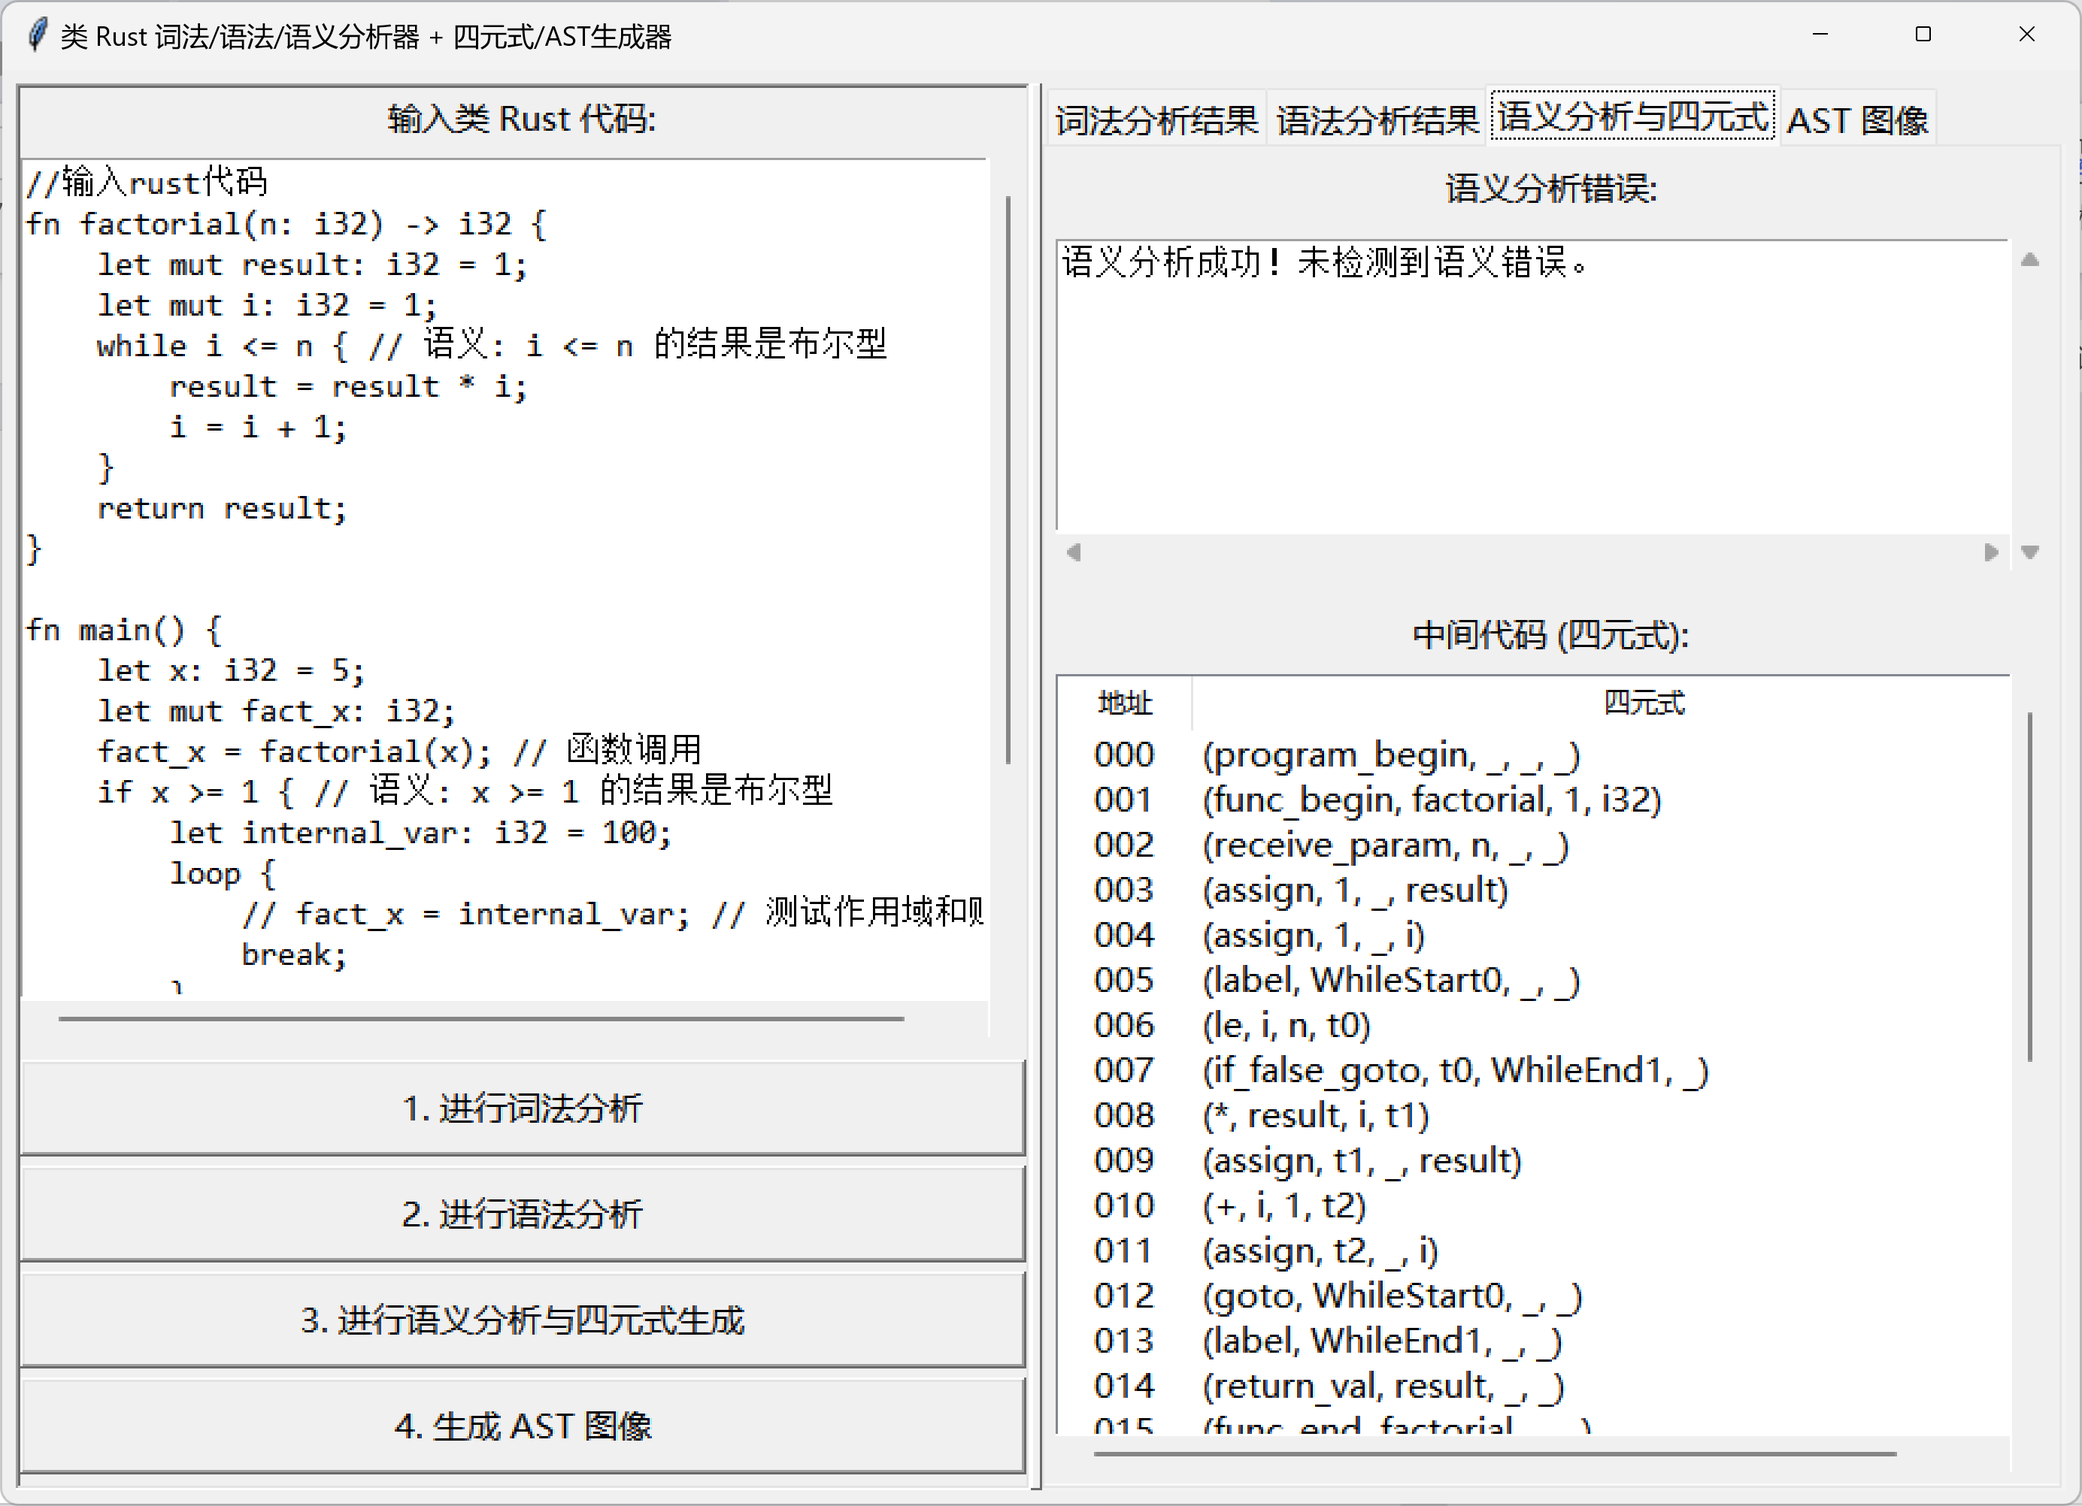
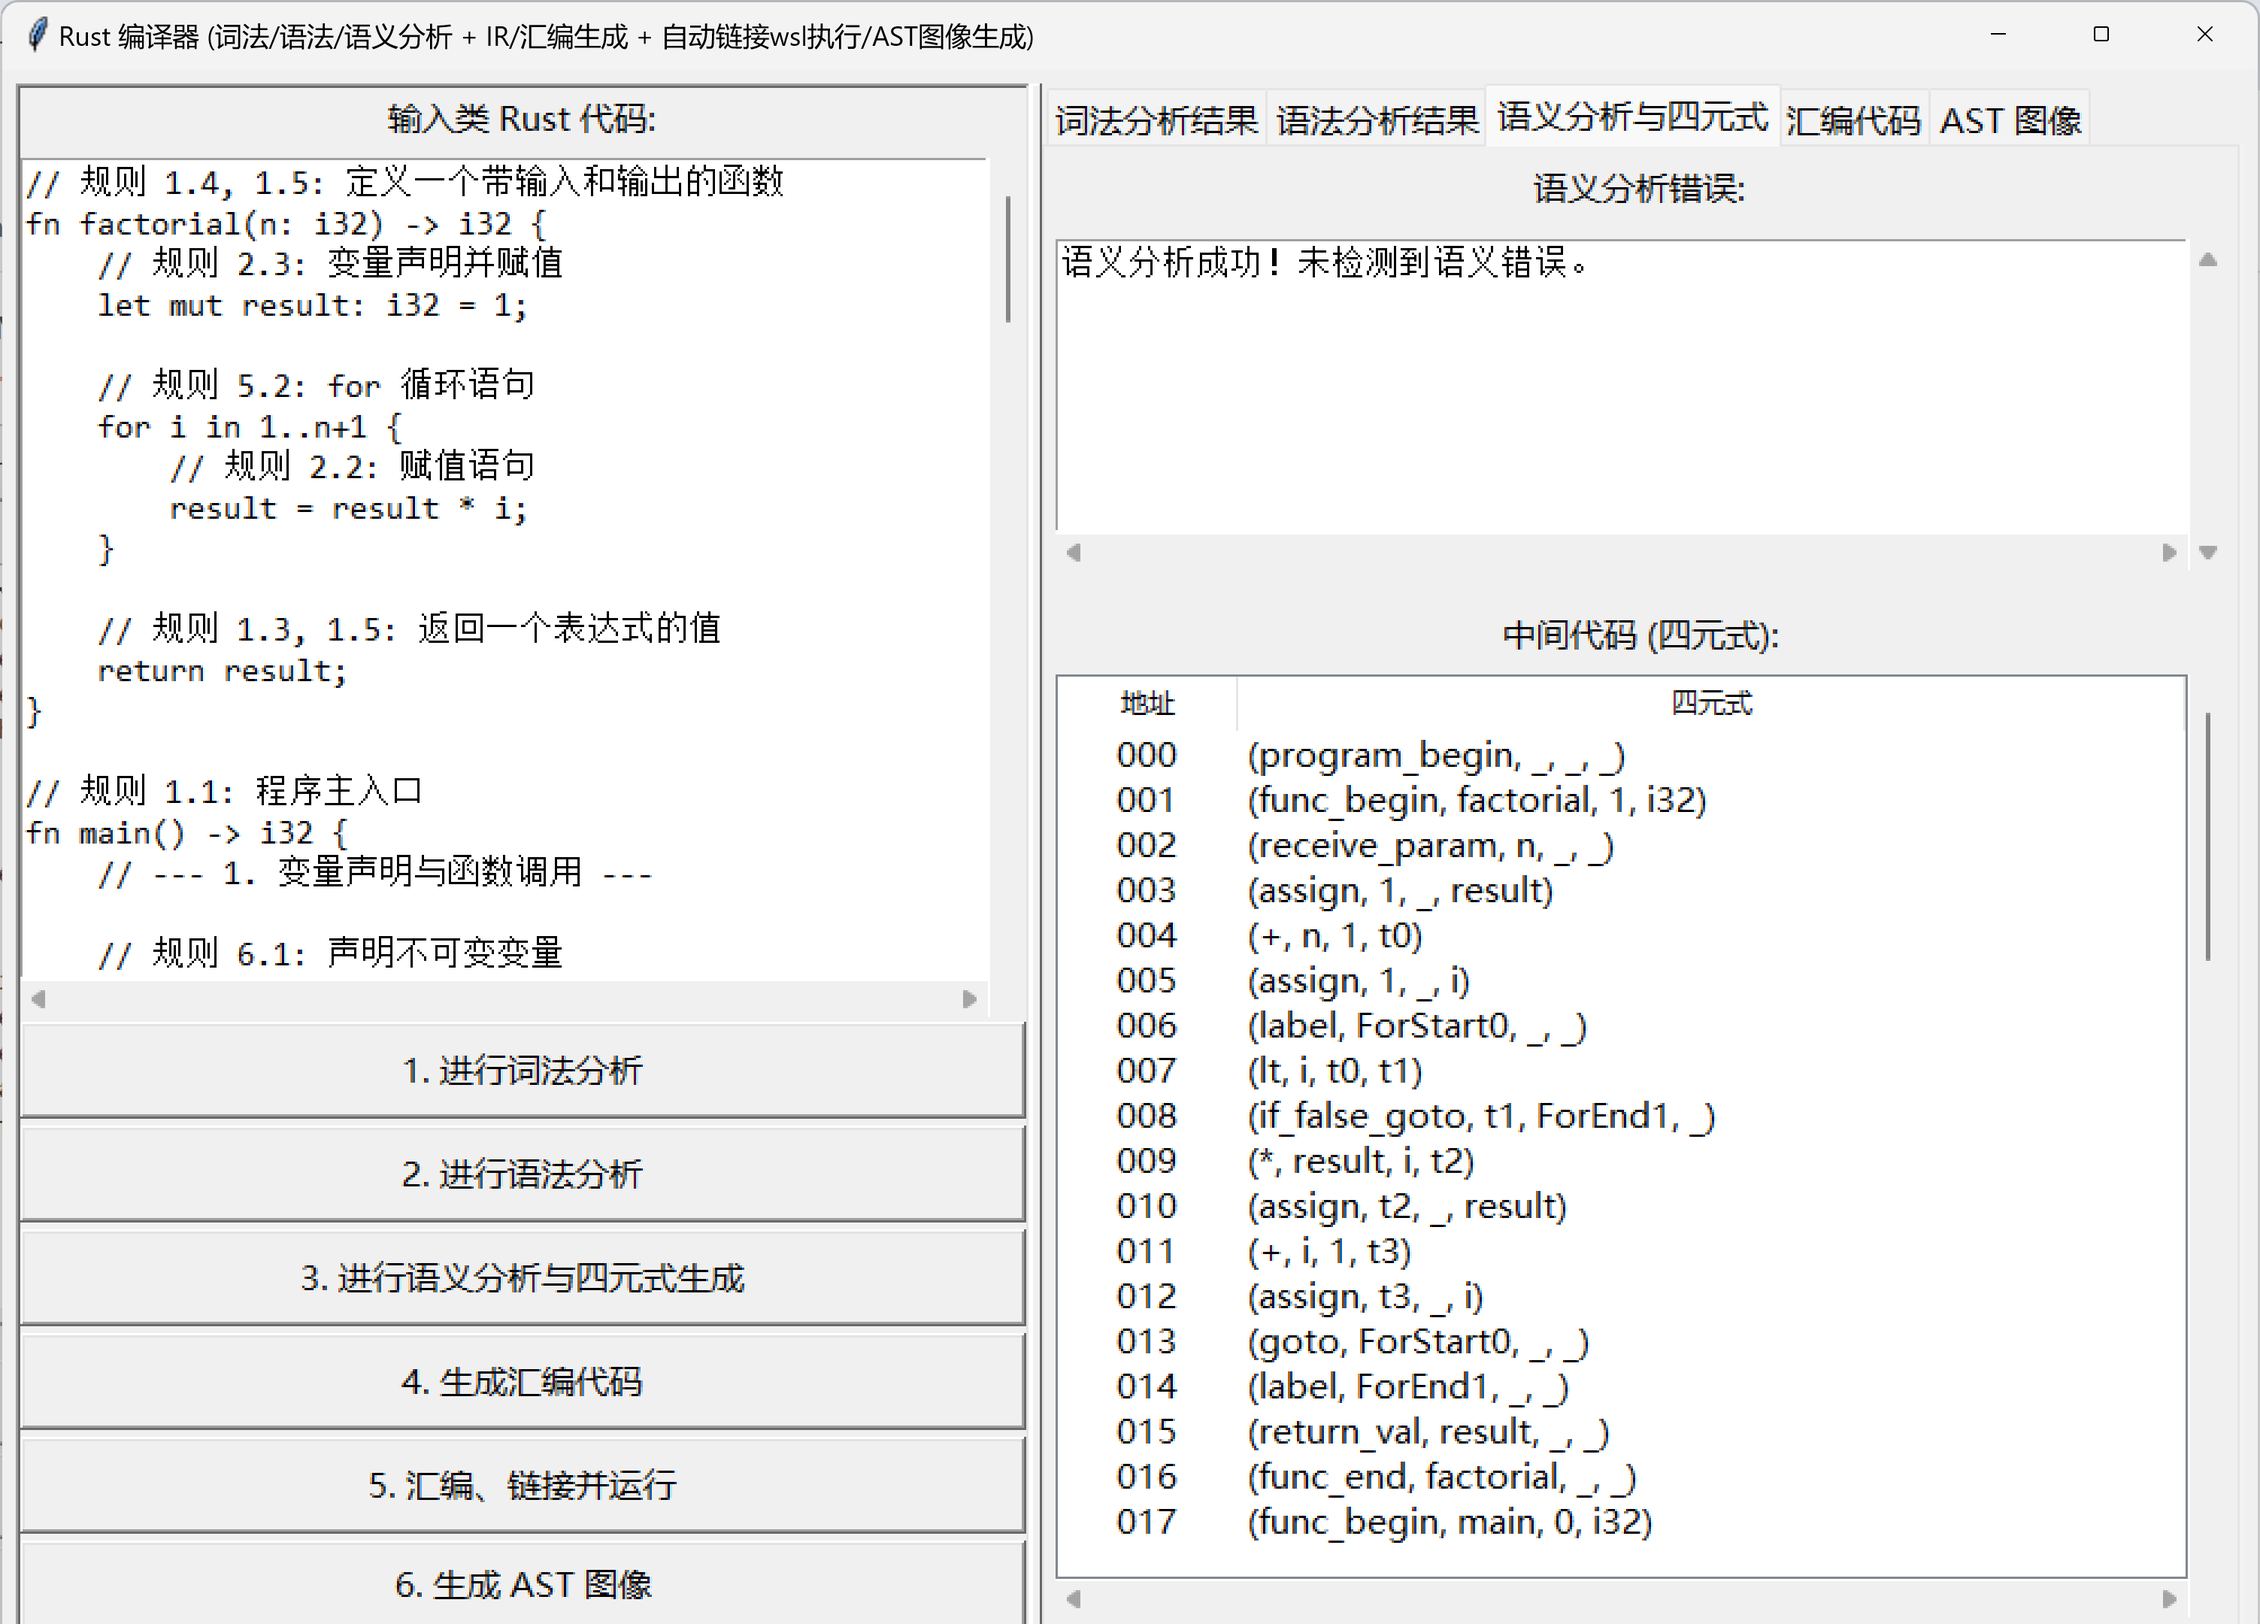
更新readme

diff --git a/README.md b/README.md
@@ -1,40 +1,40 @@
-
-
-
 # 类-Rust 可视化编译器 (Rust-like Visual Compiler)
 
-这是一个为编译原理课程设计的、功能完备的编译器前端项目。它能够对一种类-Rust语法的简化语言进行完整的**词法分析**、**语法分析**、**语义分析**，并最终生成**四元式**中间代码。整个编译流程通过一个使用`Python`和`tkinter`构建的图形用户界面(GUI)进行可视化展示。
+这是一个为编译原理课程设计的、功能完备的编译器项目。它能够对一种类-Rust语法的简化语言进行完整的**词法分析**、**语法分析**、**语义分析**，并最终生成**x86-64汇编代码**。整个编译流程通过一个使用`Python`和`tkinter`构建的图形用户界面(GUI)进行可视化展示，并能调用WSL实现汇编、链接和运行。
 
-
-
----
+-----
 
 ## 📸 可视化界面展示 (Visual Showcase)
 
 我们设计的GUI旨在将抽象的编译过程变得直观易懂。
 
 #### 主界面
-左侧为功能完备的代码编辑器，右侧为多标签页的结果展示区，整体布局清晰，操作方便。
 
+左侧为功能完备的代码编辑器（支持从 `test.rs` 文件自动加载），右侧为多标签页的结果展示区，整体布局清晰，操作方便。
 ![GUI主界面](showcase/gui_main.png)
 
 #### 多阶段结果分析
-用户可以方便地切换标签页，查看词法、语法、语义分析和四元式的输出结果。
 
+用户可以方便地切换标签页，查看词法、语法、语义分析、中间代码（四元式）和最终生成的汇编代码。
 ![多阶段分析结果](showcase/gui_analysis.png)
 
-#### 抽象语法树 (AST) 可视化
-生成的AST图像支持交互式的缩放与平移，便于分析复杂的语法结构。
+#### WSL一键汇编和执行
 
+点击按钮后可以将生成的汇编代码通过nasm汇编和gcc链接后运行，界面中输出wsl的控制台结果和程序的返回码（main函数的返回值%256）
+![WSL链接执行](showcase/gui_assembly_result.png)
+
+#### 抽象语法树 (AST) 可视化
+
+生成的AST图像支持交互式的缩放与平移，便于分析复杂的语法结构。
 ![AST可视化](showcase/gui_ast.png)
 
----
+-----
 
 ## 🚀 如何使用 (How to Use)
 
-在开始之前，请确保你的py环境中有 **Python 3.11+**。
+在开始之前，请确保你的环境已配置好 **Python 3.11+** 和 **WSL (Windows Subsystem for Linux)**。
 
-#### 1. 环境配置
+#### 1\. 环境配置
 
 首先，克隆或下载本仓库至本地。然后进入项目根目录，通过以下命令安装所需的依赖库：
 
@@ -42,29 +42,43 @@
 pip install -r requirements.txt
 ```
 
-#### 2. 运行程序
+#### 2\. 配置WSL环境
+
+本项目依赖 **WSL** 来编译和运行生成的汇编代码。请确保你已经在WSL环境中安装了 `nasm` 和 `gcc`。
+
+```bash
+# 在你的WSL发行版中（如Ubuntu）运行
+sudo apt update
+sudo apt install nasm gcc
+```
+
+#### 3\. 运行程序
 
 本项目依赖 **Graphviz** 进行AST的可视化。我们已将Windows版本的Graphviz二进制文件打包在`graphviz_bin`目录中。
 
-* **重要提示**: 请确保 `graphviz_bin` 文件夹与 `gui.py` 位于同一目录下。
-* 在项目根目录下，执行以下命令来启动GUI应用程序：
+  - **重要提示**: 请确保 `graphviz_bin` 文件夹与 `gui.py` 位于同一目录下。
+  - 在项目根目录下，执行以下命令来启动GUI应用程序：
+
+<!-- end list -->
 
 ```bash
 python gui.py
 ```
 
-#### 3. 使用步骤
+#### 4\. 使用步骤
 
-程序启动后，你将看到一个预置了示例代码的界面。你可以直接使用或修改代码，然后按照界面左侧按钮的顺序进行操作：
+程序启动后，将自动从同目录下的 `test.rs` 文件加载示例代码。你可以直接使用或修改代码，然后按照界面左侧按钮的顺序进行操作：
 
 1.  **点击 "1. 进行词法分析"**: 在右侧“词法分析结果”标签页中查看生成的Token序列。
 2.  **点击 "2. 进行语法分析"**: 在“语法分析结果”标签页中查看AST的文本结构或语法错误。
 3.  **点击 "3. 进行语义分析与四元式生成"**:
-    * 如果代码存在逻辑错误，将在“语义分析与四元式”标签页上方看到详细的错误报告。
-    * 如果代码无误，下方表格将显示生成的四元式中间代码。
-4.  **点击 "4. 生成 AST 图像"**: 在“AST 图像”标签页中查看可视化的语法树，并可使用按钮进行缩放。
+      * 如果代码存在逻辑错误，将在“语义分析与四元式”标签页上方看到详细的错误报告。
+      * 如果代码无误，下方表格将显示生成的四元式中间代码。
+4.  **点击 "4. 生成汇编代码"**: 在“汇编代码”标签页中查看为x86-64架构生成的NASM汇编代码。
+5.  **点击 "5. 汇编、链接并运行"**: 程序将自动调用WSL，使用nasm和gcc编译您的代码，并在下方的输出框中显示运行结果或编译错误。
+6.  **点击 "6. 生成 AST 图像"**: 在“AST 图像”标签页中查看可视化的语法树，并可使用按钮进行缩放。
 
----
+-----
 
 ## ✅ 功能实现 (Implemented Features)
 
@@ -72,58 +86,69 @@ python gui.py
 
 #### 基础功能
 
-* **程序与函数**:
-    * 完整的函数定义 `fn name(params) -> type { ... }`
-    * 支持函数参数和返回值类型声明
-    * `return` 语句
-* **变量与赋值**:
-    * 使用 `let` 和 `let mut` 进行变量声明
-    * 独立的赋值语句
-* **表达式**:
-    * 支持整数字面量
-    * 支持 `+`, `-`, `*`, `/` 等算术运算
-    * 支持 `==`, `!=`, `<`, `>`, `<=`, `>=` 等比较运算
-    * 支持函数调用表达式 `func(args)`
-* **控制流**:
-    * `if-else` 条件分支结构
-    * `while` 循环结构
+  * **程序与函数**:
+      * 完整的函数定义 `fn name(params) -> type { ... }`
+      * 支持函数参数和返回值类型声明
+      * `return` 语句
+  * **变量与赋值**:
+      * 使用 `let` 和 `let mut` 进行变量声明与初始化
+      * 独立的赋值语句
+  * **表达式**:
+      * 支持整数字面量和布尔值
+      * 支持 `+`, `-`, `*`, `/` 等算术运算
+      * 支持 `==`, `!=`, `<`, `>`, `<=`, `>=` 等比较运算
+      * 支持函数调用表达式 `func(args)`
+      * 支持一元负号 `-` 和逻辑非 `!`
+  * **控制流**:
+      * `if-else` 条件分支结构
+      * `while` 循环结构
 
 #### 拓展功能
 
-* **声明与赋值合并**: 支持 `let mut x: i32 = 1;` 这样在一行内完成声明、类型标注和初始化的操作。
-* **不可变变量**: 实现了Rust的核心特性之一，即默认变量不可变。只有使用 `mut` 关键字声明的变量才能被重新赋值。
-* **无限循环 `loop`**: 支持使用 `loop { ... }` 创建无限循环。
-* **循环控制**: 在 `while` 和 `loop` 循环中，完全支持使用 `break` 和 `continue` 关键字来控制循环流程。
+  * **声明与赋值合并**: 支持 `let mut x: i32 = 1;` 这样在一行内完成声明、类型标注和初始化的操作。
+  * **不可变变量**: 实现了Rust的核心特性之一，即默认变量不可变。只有使用 `mut` 关键字声明的变量才能被重新赋值。
+  * **循环**:
+      * **无限循环 `loop`**: 支持使用 `loop { ... }` 创建无限循环。
+      * **`for` 循环**: 完整支持 `for i in 1..10` 和 `for i in 1..=10` 两种范围。
+      * **可变循环变量**: 支持 `for mut i in ...` 的语法。
+  * **循环控制**: 在 `while`, `loop`, `for` 循环中，完全支持使用 `break` 和 `continue` 关键字来控制循环流程。
+  * **引用与解引用 (Borrowing & Dereferencing)**:
+      * 支持使用 `&` 创建不可变引用和 `&mut` 创建可变引用。
+      * 支持使用 `*` 对指针/引用进行解引用，用于读取或赋值。
+  * **汇编代码生成**: 可将源代码直接编译为 **x86-64 NASM** 汇编代码。
+  * **自动编译与执行**: 可通过 **WSL** 自动调用 `nasm` 和 `gcc` 完成汇编、链接，并执行生成的可执行文件。
 
----
+-----
 
 ## 🛠 技术栈与实现简介
 
-* **编程语言**: `Python 3.11`
-* **GUI框架**: `tkinter`
-* **AST可视化**: `graphviz` & `Pillow`
-* **核心分析方法**:
-    * **词法分析**: 手动编写的、基于DFA思想的词法分析器。
-    * **语法分析**: 自上而下的混合解析策略（递归下降 + Pratt解析器）。
-    * **语义分析**: 基于访问者模式的单遍深度优先遍历。
-    * **中间代码**: 生成四元式。
----
+  * **编程语言**: `Python 3.11`
+  * **GUI框架**: `tkinter`
+  * **AST可视化**: `graphviz` & `Pillow`
+  * **核心分析方法**:
+      * **词法分析**: 手动编写的、基于DFA思想的词法分析器。
+      * **语法分析**: 自上而下的混合解析策略（递归下降 + Pratt解析器）。
+      * **语义分析**: 基于访问者模式的单遍深度优先遍历，包含类型检查、作用域分析和借用检查的初步实现。
+      * **中间代码**: 生成四元式。
+      * **后端**: 基于访问者模式生成x86-64汇编代码。
+
+-----
 
 ## 💻 下载可执行程序 (Download)
 
 我们已经将编译器打包为Windows可执行文件，方便直接运行。
 
-1.  请前往本项目的 **[Releases页面](https://github.com/Truman-min-show/Rust-like-Visual-Compiler_TJU_homework/releases)**。 
-2.  在最新版本中，下载名为 `Rust-Compiler-v1.0-win64.zip` 的压缩文件。
+1.  请前往本项目的 **[Releases页面](https://github.com/Truman-min-show/Rust-like-Visual-Compiler_TJU_homework/releases)**。
+2.  在最新版本中，下载名为 `Rust-Compiler-vX.X-win64.zip` 的压缩文件。
 3.  解压下载的 `.zip` 文件。
-4.  双击运行 `Rust-Compiler.exe` 即可启动程序。
+4.  双击运行 `gui.exe` 即可启动程序。
 
-**注意**: 请确保解压后的 `graphviz_bin` 文件夹与 `.exe` 文件位于同一目录下。
+**注意**: 请确保解压后的 `graphviz_bin` 文件夹、`test.rs` 文件与 `.exe` 文件位于同一目录下。
 
----
+-----
 
 ## 项目成员
 
-- [Truman-min-show](https://github.com/Truman-min-show)
-- [limeszstone](https://github.com/limeszstone)
-- [TheTry16](https://github.com/TheTry16)
+  - [Truman-min-show](https://github.com/Truman-min-show)
+  - [limeszstone](https://github.com/limeszstone)
+  - [TheTry16](https://github.com/TheTry16)
